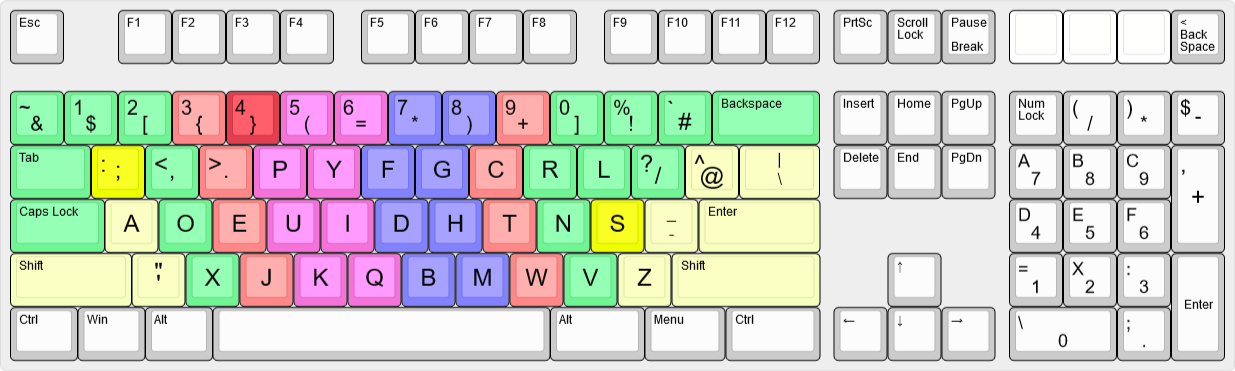
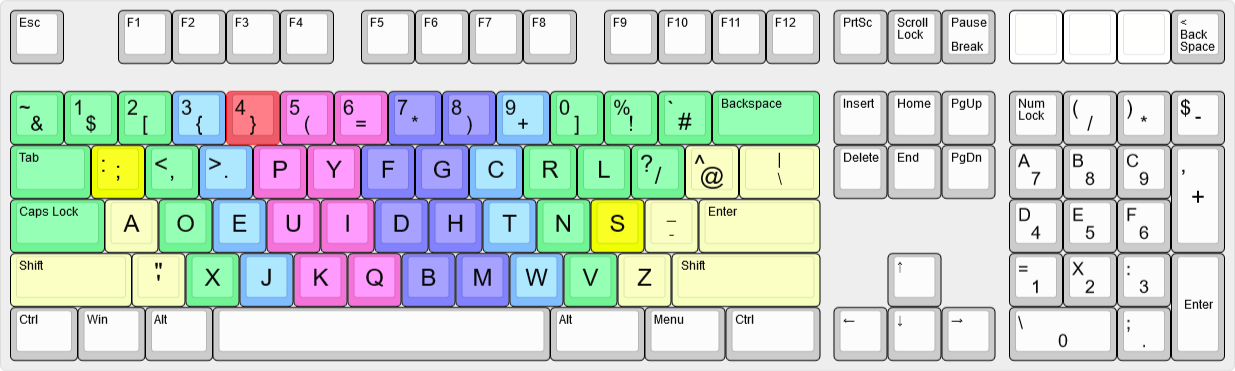
updateg graphic

Changed region(s): [[0.1231, 0.2372, 0.2462, 0.8302], [0.3692, 0.2372, 0.4615, 0.8302]]

diff --git a/README.md b/README.md
@@ -15,11 +15,11 @@ I am currently using a Microsoft Natural Ergonomic Keyboard 4000 and designed th
 
 ![](ms-keyboard.jpg)
 
-I have small hands so I tend to use my ring fingers a lot more than my pinky fingers to access keys higher up on the keyboard.  These are indicated in green.  Orange is for the middle fingers. Pink is left hand index and purple in right hand index (colored this way to show the split in the ergonomic keyboard).  Yellow and red indicate that I change fingers depending on the context, usually in relation to shifting and using hotkeys.
+I have small hands so I tend to use my ring fingers a lot more than my pinky fingers to access keys higher up on the keyboard.  These are indicated in green.  Blue is for the middle fingers. Pink is left hand index and purple in right hand index (colored this way to show the split in the ergonomic keyboard).  Yellow and red indicate that I change fingers depending on the context, usually in relation to shifting and using hotkeys.
 
 Here are the changes from Programmer Dvorak:
 
-1. Swapped the X and Q -> this puts X back where it is on QWERTY allowing the cut function to work as before.  These keys are rarer in English
+1. Swapped the X and Q -> this puts X back where it is on QWERTY allowing the cut function to work as before.  These keys are rarer in English so it shouldn't make too much of a difference.
 2. Swapped the number pad back to the traditional layout while retaining the programmer functionality.  I do not understand the logic behind swapping 1/7, 2/8, and 9/3...this seems unnecessary.
 3. Swapped & and $.  I personally use $ more than & (especally when coding PHP), so it is easier for me to reach.
 4. Put the top number row back in traditional order.  I use a lot of tabbed apps and CTRL-<num> for navigation is more convienient/comfortable for navigating.  If I need to enter in a lot of numbers the number pad is more efficient for me.  
